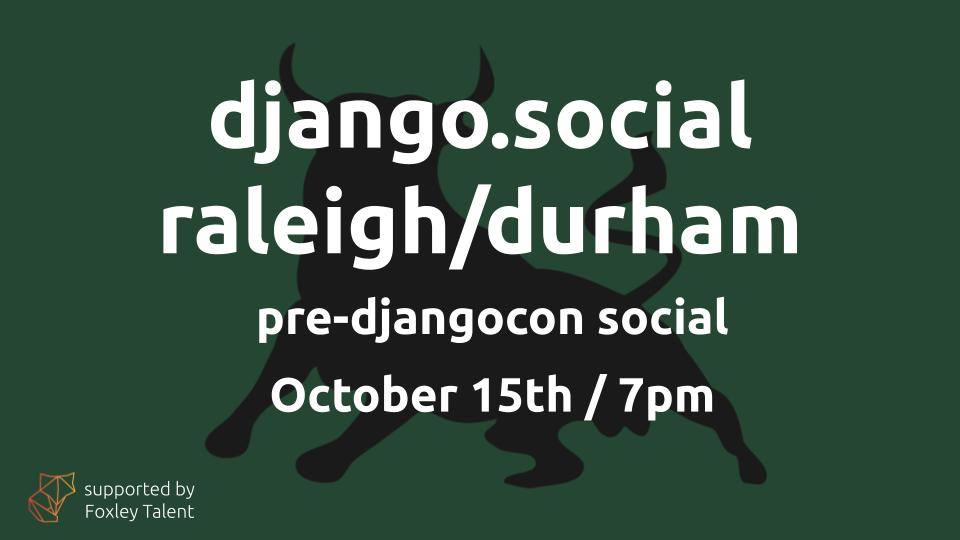
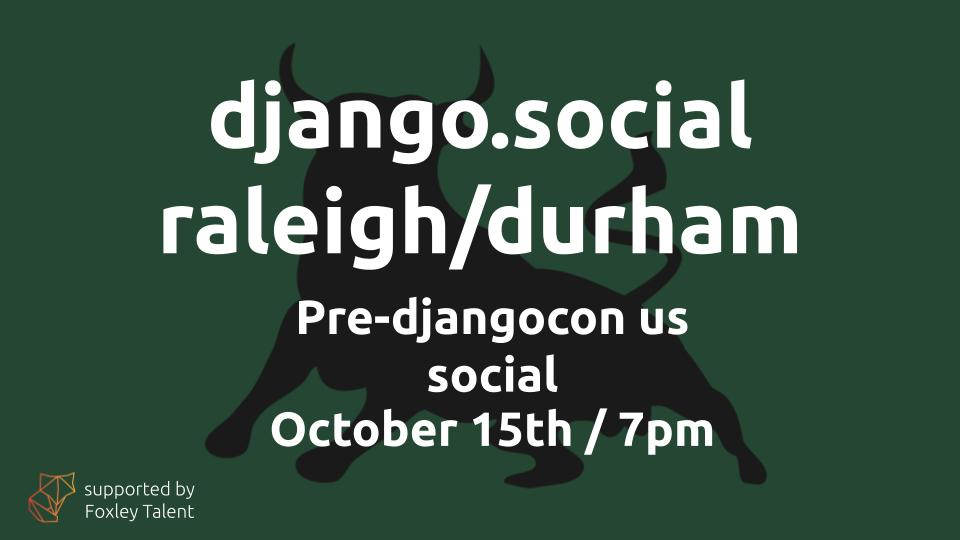
editorial fixes

Changed region(s): [[0.25, 0.5333, 0.7812, 0.8593]]

diff --git a/_drafts/2023-10-09-first-time-things-to-bring.md b/_drafts/2023-10-09-first-time-things-to-bring.md
@@ -1,7 +1,7 @@
 ---
 author: Drew Winstel, Jason Judkins
 category: General
-date: 2023-10-09 04:00:00
+date: 2023-10-09 12:00:00-04:00
 layout: post
 image: /static/img/blog/what-should-i-bring.png
 title: "It’s my first DjangoCon US. What should I bring?"
@@ -9,17 +9,17 @@ title: "It’s my first DjangoCon US. What should I bring?"
 
 It’s your first DjangoCon US (or maybe even your first tech conference). Are you concerned about what you should pack?
 
-I (Jason Judkins, the Blog Committee Chair and plagiarizer of Drew Wintsel's 2019 post of the same name.) was in that position last year at DjangoCon US 2022 in San Diego, CA.  Here’s what I think you should pack.
+I (Jason Judkins, the Blog Committee Chair and plagiarizer of Drew Winstel's 2019 post of the same name) was in that position last year at DjangoCon US 2022 in San Diego, CA.  Here’s what I think you should pack.
 
 ## Notepad and pen/pencil, or a laptop and charger
 Perhaps you like your notes a bit more analog? A notepad is exactly what you need. Many people like to leave their laptops in their rooms entirely during talks and take notes on paper instead. Plus, it’s great for logging contact info of people you meet if you don’t have the time or patience to log their contact info into your phone’s contacts immediately.
 
-If you can't live without your laptop, make sure you bring your charging cable. There’s ample Wi-Fi at the conference provided by the Durham Convention Center, so you’ll have the internet at your disposal. Many attendees will have their laptops open to take notes, follow along with slides, and/or test out the concepts being presented during talks. Plus, it’s much easier to live-tweet talks from your computer than your phone if you’re into that sort of thing.
+If you can't live without your laptop, make sure you bring your charging cable. There’s ample Wi-Fi at the conference provided by the Durham Convention Center, so you’ll have the internet at your disposal. Many attendees will have their laptops open to take notes, follow along with slides, and/or test out the concepts being presented during talks. Plus, it’s much easier to post live updates about talks from your computer than your phone if you’re into that sort of thing.
 
 ## Refillable water bottle and/or coffee cup
 It’s pretty annoying getting thirsty in the middle of a conference talk. There will be access to all the water you can drink! Plus, you can be greener by reusing your own vessel instead of single-use disposable cups.
 
-There are coffee and tea in the Rio Vista Pavilion as well, so if you're a coffee/tea drinker, bring your own tumbler if you want extra for the talks.
+There are coffee and tea in the conference center as well, so if you're a coffee/tea drinker, bring your own tumbler if you want extra for the talks.
 
 ## Comfortable clothes
 Everyone is welcome, and dress casually and comfortably, whether that's shorts, pants, a dress, or whatever makes you feel good. It’s up to you to decide what you would like to wear. As long as it isn’t a Code of Conduct violation, it’s pretty much up to you.
@@ -27,16 +27,13 @@ Everyone is welcome, and dress casually and comfortably, whether that's shorts, 
 Some of the rooms can get a bit chilly, so you might want to have a jacket or sweater handy, but don't forget the weather outside!  It can get a little chilly in the evenings in Durham, NC.
 
 ## Cell phone
-It’s practically essential for survival in suburban America. The mobile coverage is great in the venue area for all four major providers, so about any device will work.
+It’s practically essential for survival in America. The mobile coverage is great in the venue area for all four major providers, so about any device will work.
 
-## Sunglasses and sunscreen
-It’s Durham, NC. It’s going to be a bit chillier than last year warm California weather. Preliminary forecasts show no meaningful chances of rain between the time I wrote this post and the tutorial day, with highs around 65-70 °F (18-21 °C) and lows around 45-48 °F (7-9 °C). There’s quite a bit of outdoor activities that we have suggested during your time here so don't forget that even if it is cold outside, the sun can still burn you!
+## Sunglasses, sunscreen, and maybe a raincoat
+It’s Durham, NC. It’s going to be a bit chillier than last year's warm California weather. Preliminary forecasts show mostly dry weather on the converence days with highs around 65-70 °F (18-21 °C) and lows around 45-48 °F (7-9 °C). There’s quite a bit of outdoor activities that we have suggested during your time here, so don't forget that even if it is cold outside, the sun can still burn you!
 
 ## Snacks
-The Convention Center will have full breakfast, lunch, and snacks during the breaks (11:00 AM and 3:40 PM on main talk days) on all conference days. If you’re an early riser like me, you’ll probably want a snack before breakfast (8:30 AM on Monday, 9:00 AM Tuesday and Wednesday). Also, if you have special dietary needs, it can’t hurt to have a spare snack on hand just in case.
+The Convention Center will have full breakfast, lunch, and snacks during the breaks (11:00 AM and 3:40 PM) on all conference days (Monday through Wednesday). If you’re an early riser like me, you’ll probably want a snack before breakfast (8:30 AM on Monday, 9:00 AM Tuesday and Wednesday). Also, if you have special dietary needs, it can’t hurt to have a spare snack on hand just in case.
 
 ## Exercise clothes
-Before or after a long day of conference talks, I like to at least get a brief workout in. Get out and explore the city or get out to some of the outdoor spots we have suggested in the area! Go for a run, walk, or even a bike ride!
-
-## Swimsuit
-Don't forget to see if your hotel has a pool! If they do, bring your swimsuit and take a dip!
+Before or after a long day of conference talks, I like to at least get a brief workout in. [Get out and explore the city](/news/get-active/) or get out to some of the outdoor spots we have suggested in the area! Go for a run, walk, or even a bike ride!

diff --git a/_posts/2023-10-07-pre-djangocon-social.md b/_posts/2023-10-07-pre-djangocon-social.md
@@ -3,7 +3,7 @@ author: Jason Judkins
 category: General
 date: 2023-10-06 06:00:00-04:00
 layout: post
-title: "Pre-DjangoCon Social"
+title: "Pre-DjangoCon US Social"
 post_photo_alt: django social raleigh durham
 post_photo_url: /static/img/blog/django.social_Durham.jpg
 ---
@@ -12,8 +12,8 @@ In an attempt to further build the Django community, local groups can be a great
 
 With the help of Jon Gould from [Foxley Talent](https://foxleytalent.com/), who has been helping spread local Django groups through [django.social](https://www.linkedin.com/company/djangosocial/), I (Jason Judkins, Blog Comitee Chair) have been able to get my own local group started in Raleigh/Durham area.
 
-So I am pleased to announce that the kickoff meeting for the Raleigh/Durham chapter of [Django Social](https://www.meetup.com/djangosocial-raleighdurham/) group will be also hosting a pre-DjangoCon social on October 6th at 7:00 PM.  This is a great opportunity to meet other people in the community and get to know some of the people you will see at DjangoCon US!
+So I am pleased to announce that the kickoff meeting for the Raleigh/Durham chapter of [Django Social](https://www.meetup.com/djangosocial-raleighdurham/) group will be also hosting a pre-DjangoCon US social on October 15th at 7:00 PM.  This is a great opportunity to meet other people in the community and get to know some of the people you will see at DjangoCon US!
 
-I hope local Djangonauts will come out even if you are not attending DjangoCon to help me start this group and make it a success!
+I hope local Djangonauts will come out even if you are not attending DjangoCon US to help me start this group and make it a success!
 
 [RSVP here!](https://www.meetup.com/djangosocial-raleighdurham/events/296513501/)
